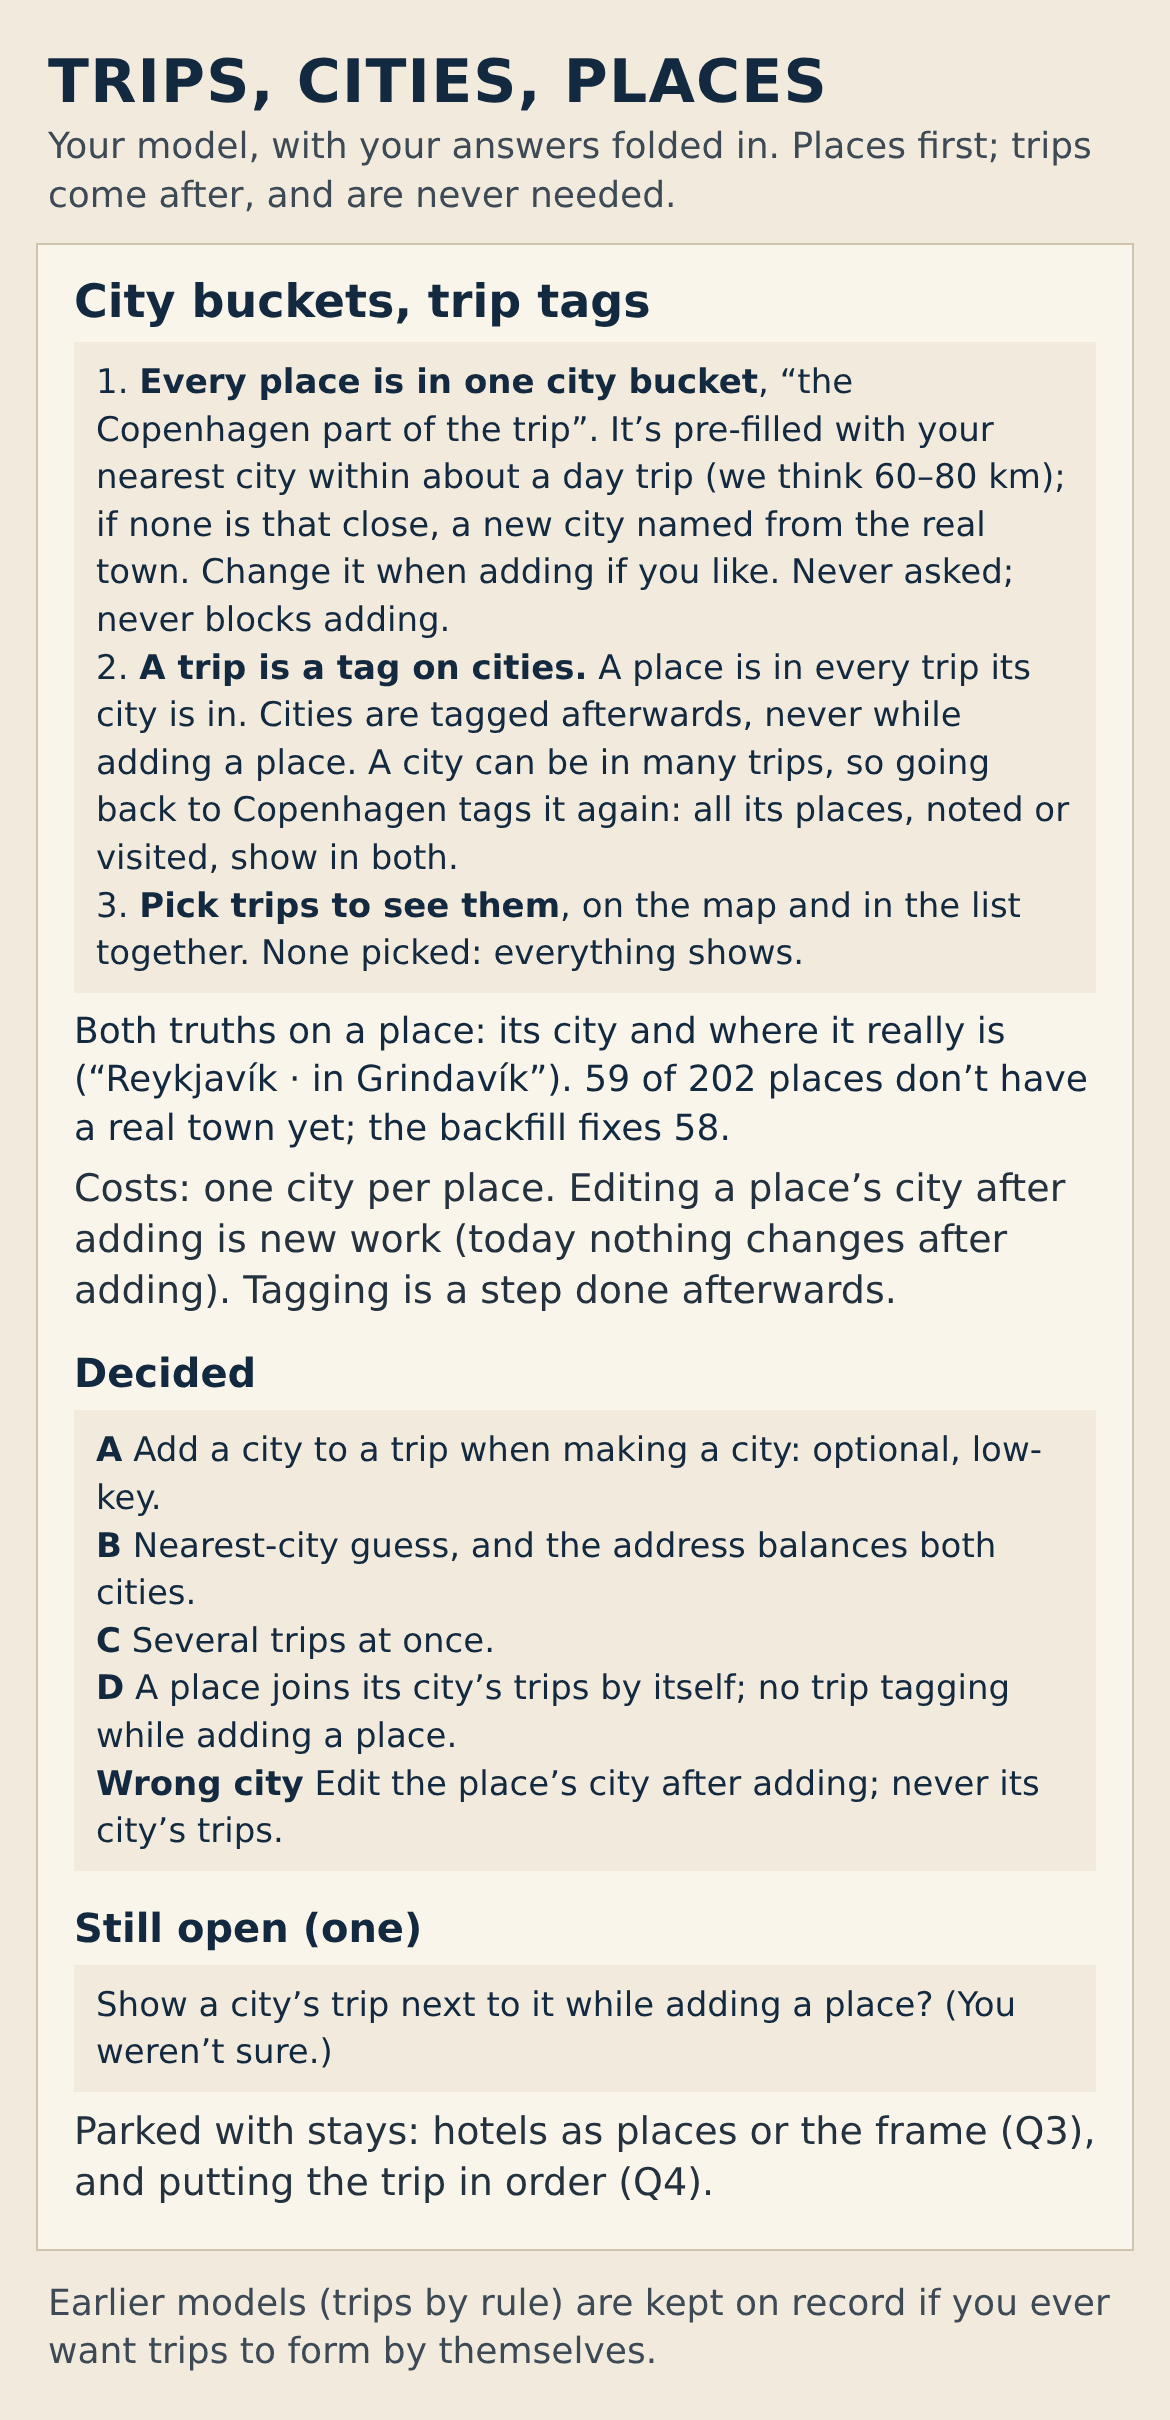
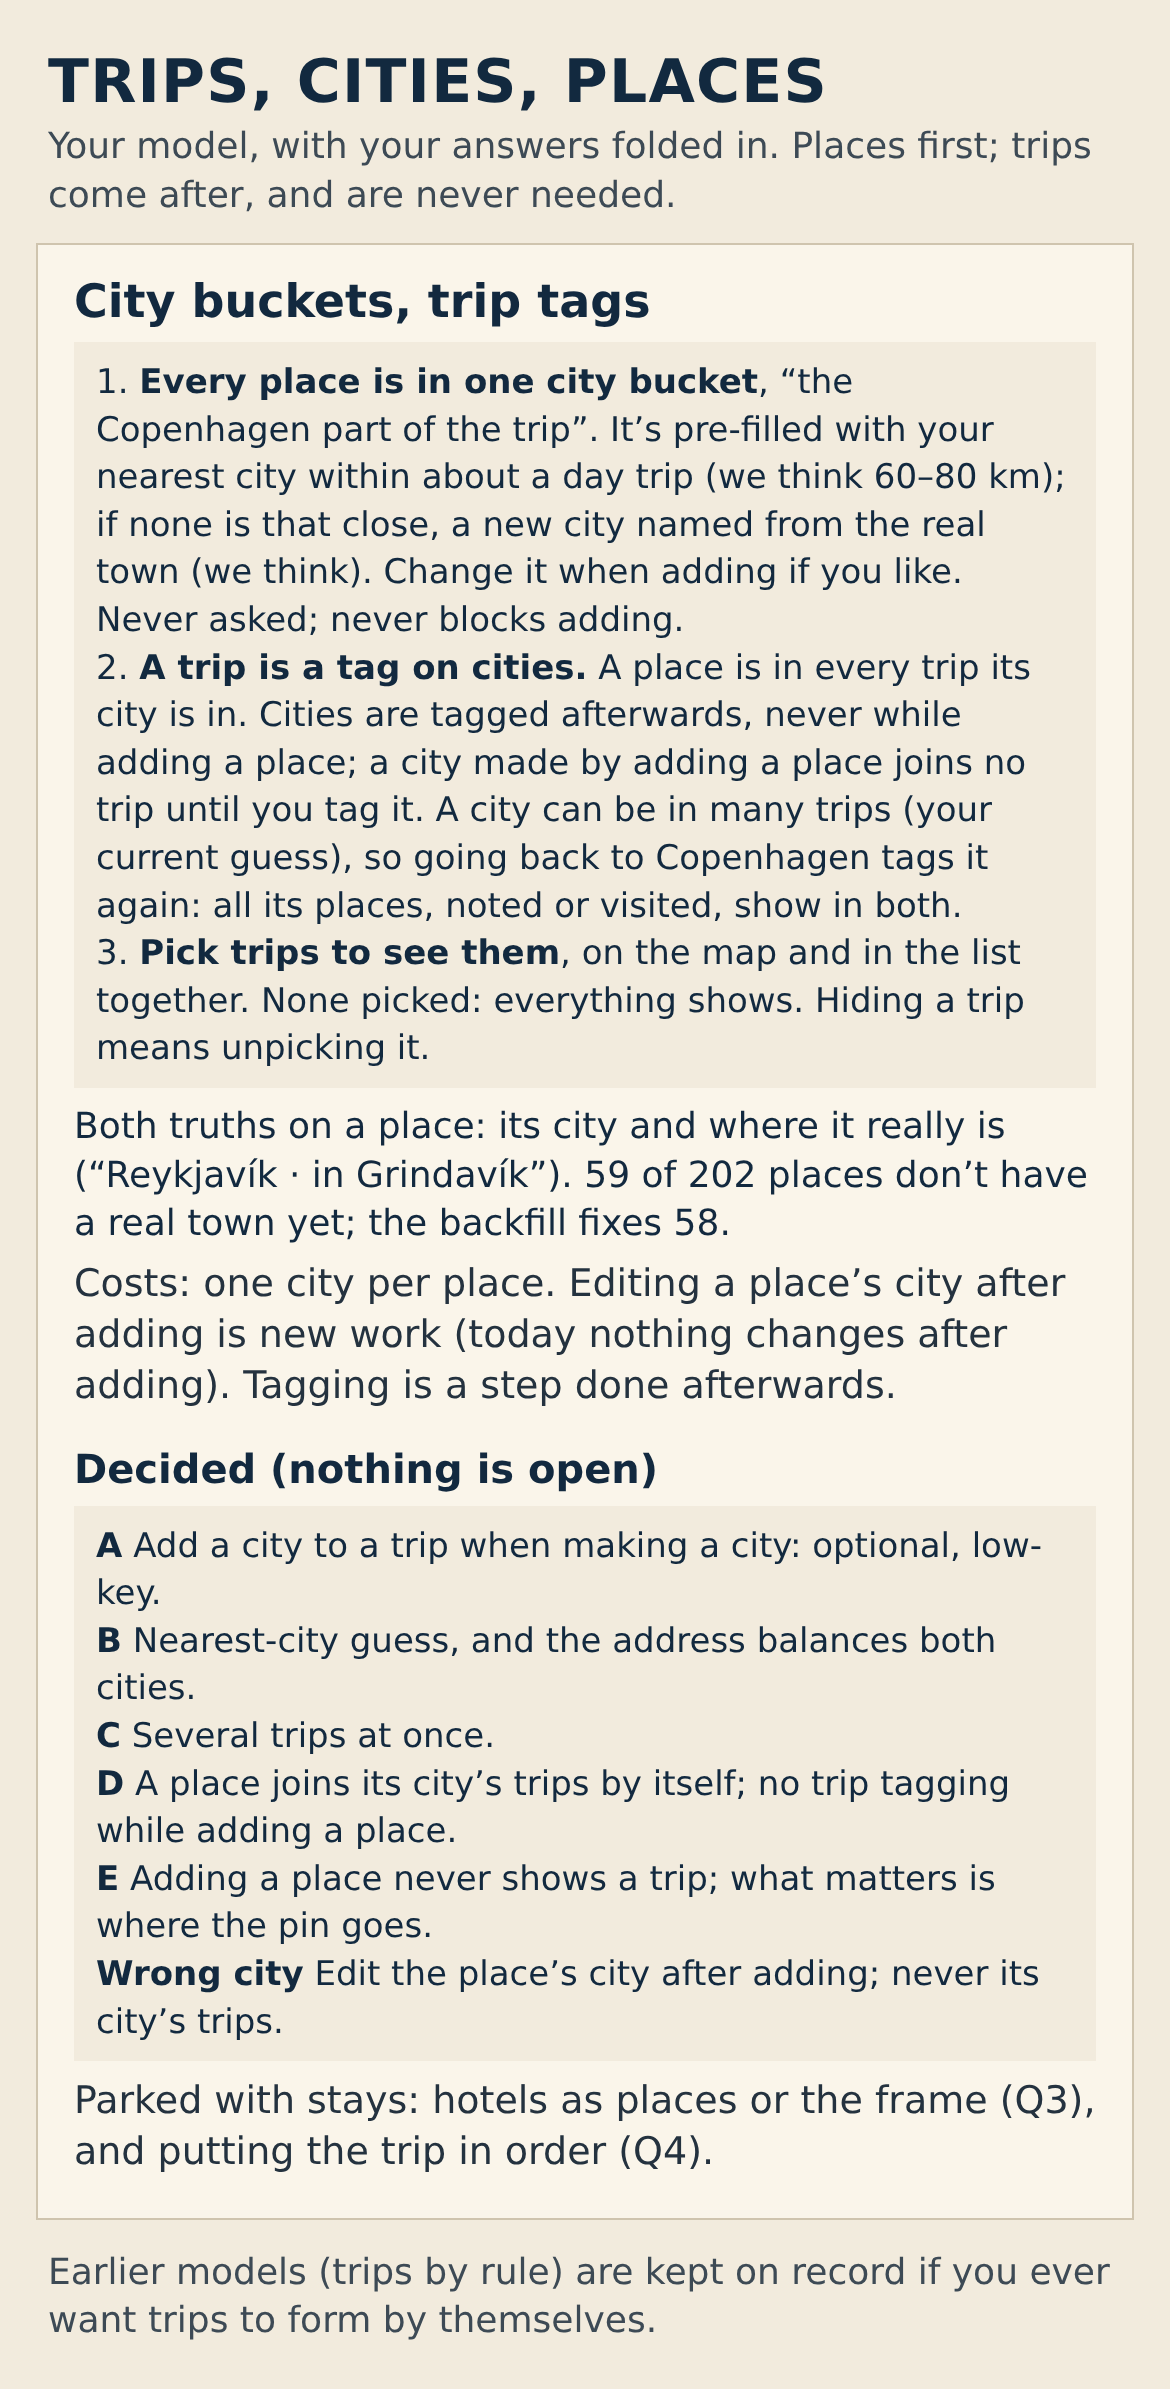
trip-model: Turn 28 final concept 5
Claude-Session: https://claude.ai/code/session_01KJurQQYHfCNMLJBzKaXeDY

diff --git a/design/trip-location-model/concepts/5-city-buckets-trip-tags.md b/design/trip-location-model/concepts/5-city-buckets-trip-tags.md
@@ -3,7 +3,7 @@
 Model only (the owner: "the model is what to nail right now not ui").
 Supersedes concepts 1-3 as the working model. **(We think)** marks the
 team's opinion; everything else is the owner's words, the owner's
-answers (A to D, Q-D, repeat trips, many trips), or today's fact.
+answers (A to E, Q-D, repeat trips, many trips), or today's fact.
 
 > "really what i need is a way to group cities.. something more
 > conceptually like a tag that creates the conceptual connective thread
@@ -16,14 +16,22 @@ answers (A to D, Q-D, repeat trips, many trips), or today's fact.
 
 1. **Every place is in one city bucket, pre-filled by a guess you can
    change at add.** Nothing is asked and nothing blocks ADD.
-   - **The guess:** the nearest bucket within about a day trip
-     **(we think 60-80 km, unmeasured)**, measured to the centre of
-     that bucket's places (owner, Q-B: "Yes").
-   - **No bucket within reach** (the first place ever, Jönköping,
-     anything past a day trip): the guess is a **new bucket named from
-     the place's real town**, made when you press ADD. **(We think)** this
-     replaces today's new-city question, because places-first rules out
-     asking.
+   - **The guess:** the nearest bucket within about a day trip (owner,
+     Q-B: "Yes"); **(we think 60-80 km, unmeasured)**.
+   - **(We think) measured to each city's stored centre.** Every city
+     carries one today (`CITIES[...].center`); a new city's centre is
+     its first place's location. So an empty city (seeded, or created on
+     its own) can still be guessed, and a nearby place never starts a
+     duplicate of it.
+   - **(We think) no bucket within reach** (the first place ever,
+     Jönköping, anything past a day trip): the guess is a **new bucket
+     named from the place's real town**, made when you press ADD. This
+     whole naming rule is the team's call, not the owner's: it replaces
+     today's new-city question, and the owner said cities "should
+     probably continue to operate as today". Places-first rules out
+     asking, which is why we think it's right.
+   - **A city created by adding a place joins no trip** until it's
+     tagged later, elsewhere (owner, D and E).
    - At add you can pick another bucket or make a new one, named
      anything ("Golden Circle"). A bucket can hold
      places outside its real bounds (the Blue Lagoon in Reykjavík).
@@ -72,7 +80,8 @@ answers (A to D, Q-D, repeat trips, many trips), or today's fact.
 ## What's stored
 
 - per place: its bucket and its real town (`address_details`), the town
-  shown, never used for filing;
+  shown, and used only to name a new bucket, never to pick an existing
+  one;
 - buckets (today's `cities` registry);
 - **new:** trips (a name), and which cities each trip tags.
 
@@ -82,7 +91,7 @@ answers (A to D, Q-D, repeat trips, many trips), or today's fact.
   after adding (the owner: "or somehow manually...i dont think i can do
   that today"). It's the one place edit this model needs.
 - **Two buckets on the same ground** (if the owner ever makes one) have
-  near-identical centres, so the guess can land in either; pick by hand.
+  nearly the same centre, so the guess can land in either; pick by hand.
   A repeat trip never needs this: it re-tags the same city.
 - **One bucket per place:** Kastrup is in Copenhagen or Malmö, not both.
   A trip tagging both cities shows it either way.
@@ -101,8 +110,11 @@ answers (A to D, Q-D, repeat trips, many trips), or today's fact.
 - The real town shows beside the bucket.
 - Trips (tags) and the trip filter are new.
 - A place's city can be edited after adding (Q-D).
+- The city filter narrows to the selected trips' cities.
+- First open: no seeded cities on a fresh start, and search is worldwide
+  from the start (today seeds cities and widens search only on a miss).
 
-Unchanged: the pick at add, the city filter, plans.
+Unchanged: the pick at add, plans.
 
 ## Owner questions
 
@@ -125,10 +137,13 @@ Unchanged: the pick at add, the city filter, plans.
   - **Q-D:** "if the app puts a place in the wrong city you should be
     able to edit the city attached to the place. you should not be able
     to edit the trips the city is attached to"
-- **Still open (the only one):**
-  - **Seeing the trip at add:** the owner: "Im ambivalent/not sure if
-    you should see the associated trip alongside the city when adding a
-    place."
+  - **E, the trip at add: no.** "i actually dont think you should show
+    the trip when adding a place because what if you're going to a place
+    multiple times, or a second or third time or wahtever, it would be
+    impossible to determine which trip you're thinking about. and
+    honestly it doesn't even matter... what matters is where you're
+    putting the pin."
+- **Nothing is open.**
 - **Answered by the reframe:** Q1, Q2, Q5, Q6, Q8.
 - **Parked with stays:** Q3 (hotels as places or the frame), Q4 (trip
   order).

diff --git a/design/trip-location-model/jam.md b/design/trip-location-model/jam.md
@@ -2694,3 +2694,48 @@ NEXT: product designer (systems focus) — the three edits:
 2. the line that a city made at ADD joins no trip until tagged later;
 3. E moved to Decided in the overview, concept 5 and jobs.md.
 Then a light checker pass, and the summary goes back to the owner.
+
+## Turn 28 -- product designer (systems focus): Turn 27 and check 7 applied (final edits)
+
+- **From Turn 27:**
+  1. The whole new-city naming rule is marked "(we think)" in the file
+     and the overview. It's a team call: it replaces today's question,
+     and the owner said cities "should probably continue to operate as
+     today".
+  2. **A city created by adding a place joins no trip until it's tagged
+     later, elsewhere.** This is now in concept 5's rule 1, jobs.md
+     check 4 and overview rule 2.
+  3. **E is decided: no.** The owner, verbatim: "i actually dont think
+     you should show the trip when adding a place because what if you're
+     going to a place multiple times ... it would be impossible to
+     determine which trip you're thinking about. and honestly it doesn't
+     even matter... what matters is where you're putting the pin."
+     - Concept 5 now says "Nothing is open".
+     - jobs.md check 4 now includes "adding a place never shows a trip".
+     - The overview shows E under "Decided (nothing is open)".
+- **From check 7:**
+  4. **The empty city:** the guess is now measured to each city's
+     **stored centre** (we think). Every city carries one today
+     (`CITIES[...].center` in index.html); a new city's centre is its
+     first place's location. So an empty seeded or self-made city can
+     be guessed, and a nearby place never starts a duplicate. This
+     replaces "the centre of its places".
+  5. **Q-B credit:**
+     - the owner's "Yes" covers "nearest city within a day trip";
+     - the 60-80 km figure and the stored-centre measure are both
+       "(we think)".
+  6. **Wording:**
+     - the real town is "used only to name a new bucket, never to pick
+       an existing one";
+     - the city filter moved into "What changes" (it narrows to the
+       selected trips' cities);
+     - first open (no seeded cities on a fresh start, worldwide search
+       from the start) added to "What changes".
+  7. **The overview:**
+     - "Hiding a trip means unpicking it";
+     - many trips per city is marked "(your current guess)";
+     - re-rendered at 1170x2389 and read at phone size.
+
+Every owner question is now answered; Q3 and Q4 stay parked with stays.
+
+NEXT: orchestrator — send the overview to the owner.

diff --git a/design/trip-location-model/jobs.md b/design/trip-location-model/jobs.md
@@ -57,9 +57,10 @@ the owner and a place.
 ## Terms
 
 - **Bucket** (a "city" in the app): one per place. Pre-filled by the
-  guess: the nearest bucket within about a day trip (we think 60-80 km,
-  unmeasured); if none is within reach, a new bucket named from the real
-  town. Changeable or new at add; it can hold places outside its real
+  guess: the nearest bucket within about a day trip (owner, Q-B; we
+  think 60-80 km, unmeasured, measured to each city's stored centre, so
+  an empty city can be guessed); if none is within reach, (we think) a
+  new bucket named from the real town. Changeable or new at add; it can hold places outside its real
   bounds and be named anything.
 - **Real town:** where the place really is (`address_details`).
 - **Trip:** a tag on buckets; optional, any number; a bucket can be in
@@ -83,8 +84,10 @@ the owner and a place.
    town).
 4. **Trips are tags.** PASS if a city can be tagged any time after, or
    optionally when created on its own (never inside adding a place); any
-   number of trips exist; one bucket can be in several; and a new place
-   joins its bucket's trips automatically.
+   number of trips exist; one bucket can be in several; a new place
+   joins its bucket's trips automatically; a city created by adding a
+   place joins no trip until it's tagged later, elsewhere; and adding a
+   place never shows a trip (owner, E).
 5. **The trip filter.** PASS if, with no trip selected, every place
    shows; with one or more selected (Q-C decided), exactly the places
    whose bucket is in any of them show, in the list and on the map

diff --git a/design/trip-location-model/notes/systems.md b/design/trip-location-model/notes/systems.md
@@ -51,3 +51,4 @@
 - Turn 23: owner reframe → concept 5 (city buckets, trip tags; 3 rules, no plumbing). Q1/2/5/6/8 answered; Q3/4 parked; new Q-A (new city joins viewed trip), Q-B (nearest-within-day-trip guess), Q-C (several trips at once). jobs.md/overview not yet rescoped.
 - Turn 25: concept 5 + both truths/owner-named buckets/never asked, Q-D; jobs.md rewritten as concept-5 checks (1-10, C1, T1-T4; today passes 1,2,6,7); overview one card 1170x2011.
 - Turn 26: owner A-D, repeat trips (same city re-tagged), many trips (guess), Q-D (edit place's city, never trips) folded in; check 6 fixes (guess incl. no-bucket → new from town; filter semantics; C1; 59 caveat). jobs.md checks 1-10 updated, T4 re-tag. Overview 1170x2420. One open: show trip at add.
+- Turn 28: Turn 27 + check 7 applied: naming rule 'we think'; city made at add joins no trip; E decided (no trip at add); guess measured to each city's stored centre (we think), fixing empty cities; Q-B credit narrowed; wording fixes; overview 1170x2389. Nothing open.
